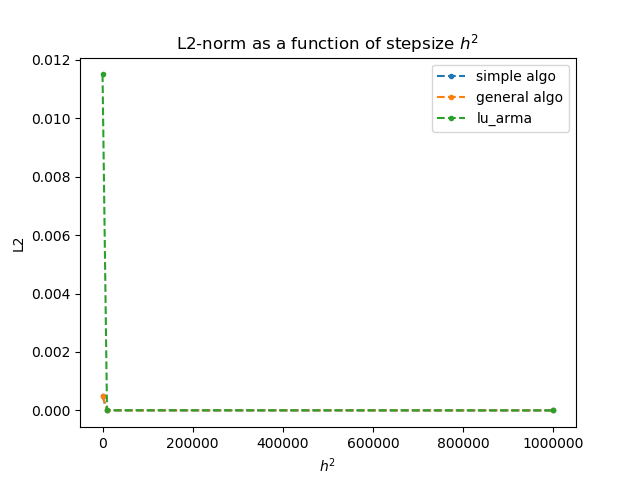
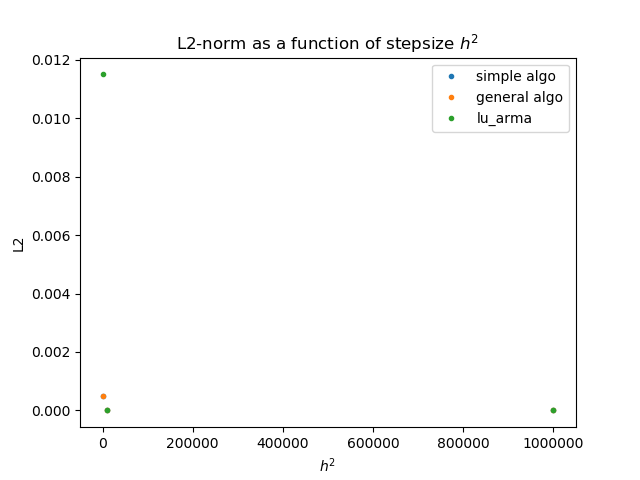
fig change

diff --git a/cpp-code/Results/test-visualizer_main.py b/cpp-code/Results/test-visualizer_main.py
@@ -40,7 +40,7 @@ nums = ('simple algo','general algo','lu_arma')
 consts = [const,const2,const3]
 plt.figure()
 for i in range(len(nums)):
-        plt.plot(n**2, consts[i],'--.',label = nums[i])
+        plt.plot(n**2, consts[i],'.',label = nums[i])
 
 plt.title('L2-norm as a function of stepsize $h^{2}$')
 plt.xlabel('$h^2$')
